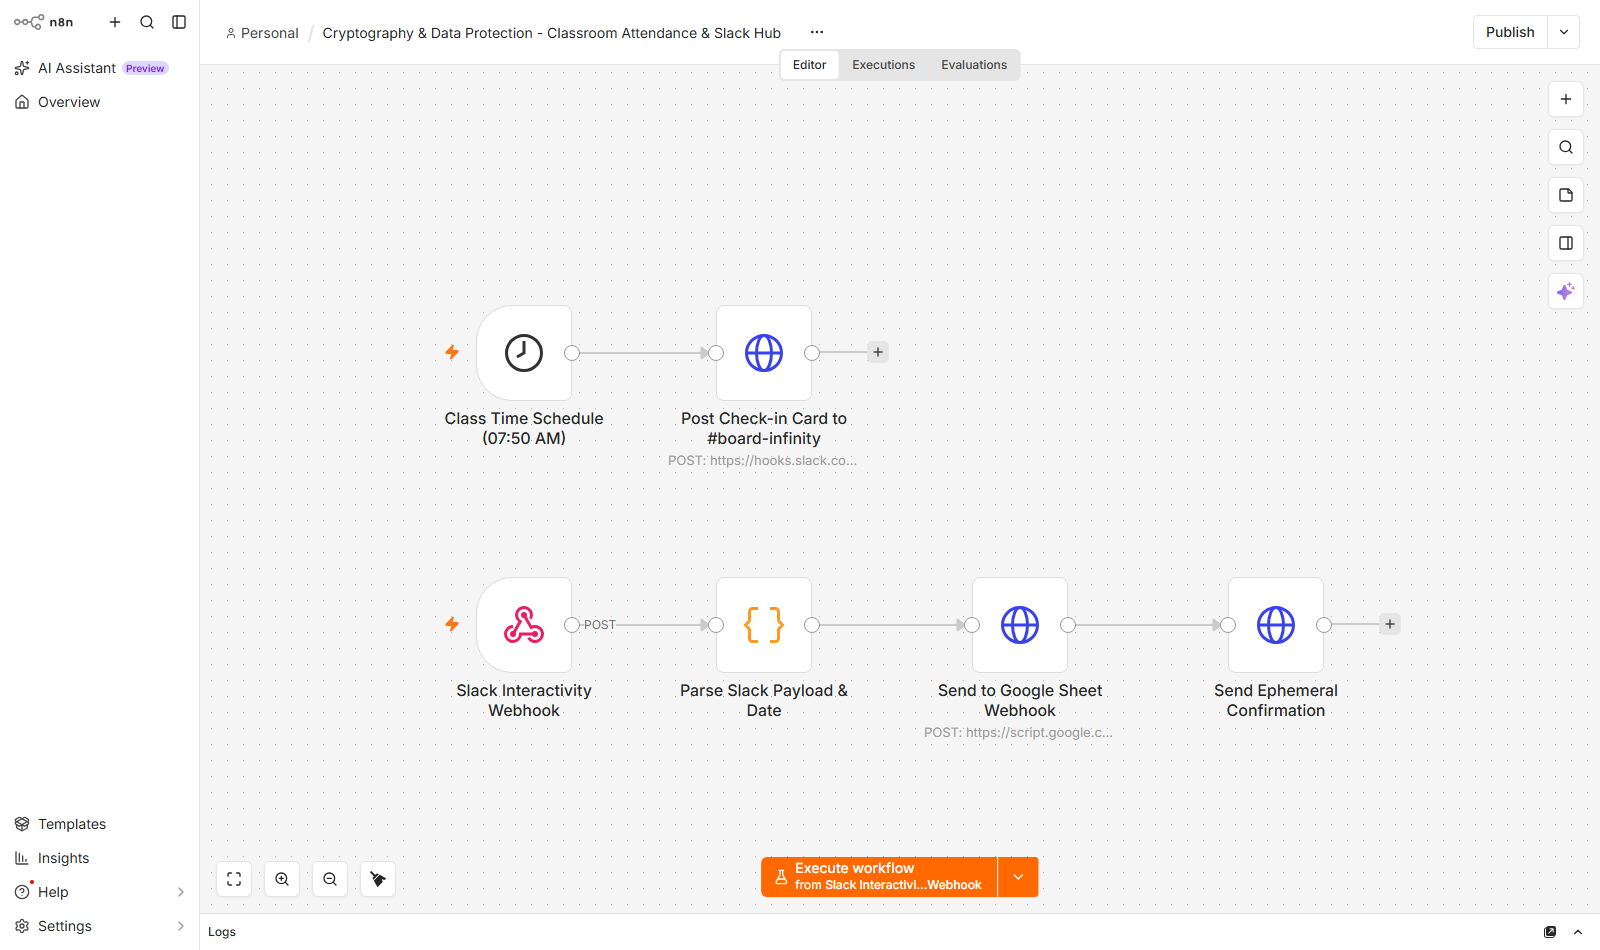
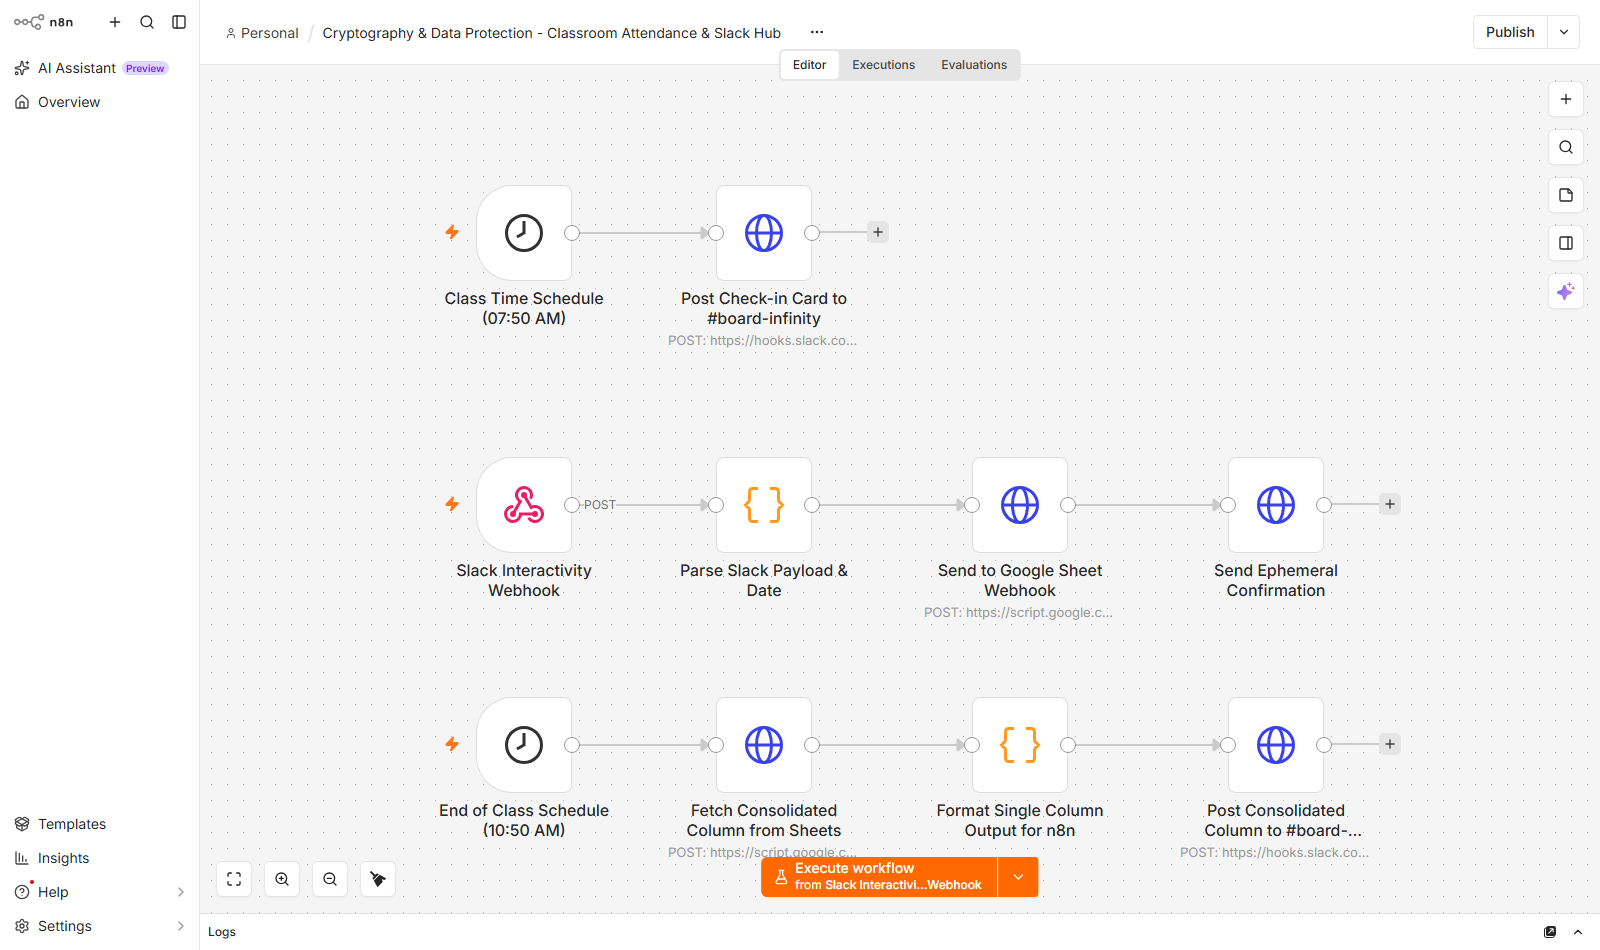
feat(n8n): implement consolidated single-column attendance pipeline with 10:50 AM end-of-class reporting

diff --git a/99_Resources/attendance_automation/SlackAttendanceWebhook.js b/99_Resources/attendance_automation/SlackAttendanceWebhook.js
@@ -13,19 +13,17 @@ function doGet(e) {
   try {
     var ss = SpreadsheetApp.getActiveSpreadsheet();
     var sheet = ss.getSheetByName("Sheet1") || ss.getSheets()[0];
-    var today = Utilities.formatDate(new Date(), "Asia/Kolkata", "dd-MM-yyyy");
     
-    var colInfo = getOrCreateDateColumn(sheet, today);
+    // Support ?date=07-09-2026 query param, default to today
+    var requestedDate = (e && e.parameter && e.parameter.date) 
+      ? e.parameter.date.trim() 
+      : Utilities.formatDate(new Date(), "Asia/Kolkata", "dd-MM-yyyy");
     
-    return ContentService.createTextOutput(JSON.stringify({
-      status: "success",
-      date: today,
-      column: colInfo.column,
-      newColumnCreated: colInfo.isNew,
-      message: colInfo.isNew 
-        ? "✅ Added new attendance date column for " + today + " at column " + colInfo.column + " with student checkboxes." 
-        : "ℹ Attendance column for " + today + " already exists at column " + colInfo.column + "."
-    })).setMimeType(ContentService.MimeType.JSON);
+    var colInfo = getOrCreateDateColumn(sheet, requestedDate);
+    var consolidated = buildConsolidatedColumn(sheet, colInfo.column, requestedDate);
+    
+    return ContentService.createTextOutput(JSON.stringify(consolidated))
+      .setMimeType(ContentService.MimeType.JSON);
   } catch (err) {
     return ContentService.createTextOutput(JSON.stringify({ status: "error", message: err.toString() }))
       .setMimeType(ContentService.MimeType.JSON);
@@ -59,6 +57,17 @@ function doPost(e) {
     } else if (e.parameter) {
       data = e.parameter;
       if (data.payload) rawPayload = data.payload;
+    }
+
+    // Direct Column Consolidation Request for n8n: { action: "get_column", date: "07-09-2026" }
+    var action = (data && data.action) || (e.parameter && e.parameter.action) || "";
+    if (action === "get_column") {
+      var ss = SpreadsheetApp.getActiveSpreadsheet();
+      var sheet = ss.getSheetByName("Sheet1") || ss.getSheets()[0];
+      var targetDate = (data.date || (e.parameter && e.parameter.date) || Utilities.formatDate(new Date(), "Asia/Kolkata", "dd-MM-yyyy")).trim();
+      var colInfo = getOrCreateDateColumn(sheet, targetDate);
+      var consolidated = buildConsolidatedColumn(sheet, colInfo.column, targetDate);
+      return ContentService.createTextOutput(JSON.stringify(consolidated)).setMimeType(ContentService.MimeType.JSON);
     }
 
     if (rawPayload) {
@@ -111,10 +120,10 @@ function doPost(e) {
     var ss = SpreadsheetApp.getActiveSpreadsheet();
     var sheet = ss.getSheetByName("Sheet1") || ss.getSheets()[0];
     
-    // Format Today's Date: DD-MM-YYYY (e.g. 08-09-2026)
-    var today = Utilities.formatDate(new Date(), "Asia/Kolkata", "dd-MM-yyyy");
+    // Format Today's Date: DD-MM-YYYY (e.g. 07-09-2026 or 08-09-2026)
+    var today = (data.date || (e.parameter && e.parameter.date) || Utilities.formatDate(new Date(), "Asia/Kolkata", "dd-MM-yyyy")).trim();
     
-    // 1. Get or dynamically create today's date column with full formatting & checkboxes
+    // 1. Get or dynamically create today's date column with Date header & checkboxes
     var colInfo = getOrCreateDateColumn(sheet, today);
     var targetCol = colInfo.column;
 
@@ -144,7 +153,15 @@ function doPost(e) {
     if (currentStatus === true) {
       var alreadyMsg = "ℹ *Already Recorded:* You are already marked *PRESENT* for today (" + today + ").";
       postToSlack(responseUrl, alreadyMsg, false);
-      return formatOutput(isSlackInteraction, { status: "already_marked", message: alreadyMsg }, alreadyMsg);
+      
+      var consolidatedData = buildConsolidatedColumn(sheet, targetCol, today);
+      return formatOutput(isSlackInteraction, { 
+        status: "already_marked", 
+        message: alreadyMsg,
+        date: today,
+        column: targetCol,
+        consolidated: consolidatedData
+      }, alreadyMsg);
     }
 
     // 4. Mark student as PRESENT (TRUE / Checkbox Ticked)
@@ -157,17 +174,89 @@ function doPost(e) {
     // B. Send live attendance broadcast to #board-infinity channel
     notifyChannelAttendance(studentName, studentEmail, today);
 
+    // C. Build consolidated single-column output for n8n automation
+    var consolidatedData = buildConsolidatedColumn(sheet, targetCol, today);
+
     return formatOutput(isSlackInteraction, {
       status: "success",
       message: successMsg,
       date: today,
-      column: targetCol
+      column: targetCol,
+      raw_column_text: consolidatedData.raw_column_text,
+      column_values: consolidatedData.column_values,
+      items: consolidatedData.items,
+      summary: consolidatedData.summary
     }, successMsg, true, studentName, studentEmail, today);
 
   } catch (err) {
     var errMsg = "❌ Error recording attendance: " + err.toString();
     return formatOutput(isSlackInteraction, { status: "error", message: errMsg }, errMsg);
   }
+}
+
+/**
+ * Builds the exact consolidated single-column format requested for n8n:
+ * Row 1: "Date"
+ * Row 2: "07-09-2026"
+ * Row 3..N: "TRUE" / "FALSE" for each student in the roster
+ */
+function buildConsolidatedColumn(sheet, col, dateStr) {
+  var lastRow = sheet.getLastRow();
+  var colValues = [];
+  var rawTextLines = [];
+  var items = [];
+  var presentCount = 0;
+  var absentCount = 0;
+
+  // Row 1: Header ("Date")
+  var headerVal = "Date";
+  colValues.push(headerVal);
+  rawTextLines.push(headerVal);
+  items.push({ row: 1, value: headerVal });
+
+  // Row 2: Date String ("07-09-2026")
+  colValues.push(dateStr);
+  rawTextLines.push(dateStr);
+  items.push({ row: 2, value: dateStr });
+
+  // Rows 3 to lastRow: Student Attendance Booleans (TRUE / FALSE)
+  if (lastRow >= 3) {
+    var rangeVals = sheet.getRange(3, col, lastRow - 2, 1).getValues();
+    for (var i = 0; i < rangeVals.length; i++) {
+      var rowNum = i + 3;
+      var rawVal = rangeVals[i][0];
+      var isPresent = (rawVal === true || rawVal === "TRUE" || rawVal === "true" || rawVal === 1);
+      var strVal = isPresent ? "TRUE" : "FALSE";
+      
+      if (isPresent) {
+        presentCount++;
+      } else {
+        absentCount++;
+      }
+
+      colValues.push(strVal);
+      rawTextLines.push(strVal);
+      items.push({ row: rowNum, value: strVal, boolean: isPresent });
+    }
+  }
+
+  return {
+    status: "success",
+    date: dateStr,
+    column: col,
+    header: "Date",
+    raw_column_text: rawTextLines.join("\n"),
+    column_values: colValues,
+    items: items,
+    summary: {
+      total_students: presentCount + absentCount,
+      present: presentCount,
+      absent: absentCount,
+      attendance_percentage: (presentCount + absentCount > 0) 
+        ? ((presentCount / (presentCount + absentCount)) * 100).toFixed(1) + "%" 
+        : "0%"
+    }
+  };
 }
 
 /**
@@ -187,6 +276,8 @@ function getOrCreateDateColumn(sheet, today) {
         ? Utilities.formatDate(cellVal, "Asia/Kolkata", "dd-MM-yyyy")
         : cellVal.toString().trim();
       if (formattedCellDate === today) {
+        // Ensure Row 1 has "Date" header
+        sheet.getRange(1, col).setValue("Date");
         return { column: col, isNew: false };
       }
     }
@@ -195,15 +286,15 @@ function getOrCreateDateColumn(sheet, today) {
   // If not found, create a new column at the end of the sheet
   var newCol = lastCol + 1;
 
-  // Header on Row 1 (Styled in University Blue)
+  // Header on Row 1 (Explicitly "Date" styled in University Blue)
   sheet.getRange(1, newCol)
-    .setValue("Attendance")
+    .setValue("Date")
     .setFontWeight("bold")
     .setHorizontalAlignment("center")
     .setBackground("#1a73e8")
     .setFontColor("#ffffff");
 
-  // Date label on Row 2 (Bold, Centered, Soft Blue Highlight)
+  // Date label on Row 2 (e.g. 07-09-2026)
   sheet.getRange(dateRow, newCol)
     .setValue(today)
     .setFontWeight("bold")
@@ -216,7 +307,7 @@ function getOrCreateDateColumn(sheet, today) {
   if (lastRow >= 3) {
     var studentRange = sheet.getRange(3, newCol, lastRow - 2, 1);
     studentRange.insertCheckboxes();
-    studentRange.setValue(false); // Default to unchecked (Absent)
+    studentRange.setValue(false); // Default to unchecked (FALSE / Absent)
     studentRange.setHorizontalAlignment("center");
   }
 
@@ -282,7 +373,7 @@ function postToSlack(responseUrl, text, isSuccess, studentName, studentEmail, to
  * Live broadcast to #board-infinity channel
  */
 function notifyChannelAttendance(studentName, studentEmail, today) {
-  if (!SLACK_CHANNEL_WEBHOOK) return;
+  if (!SLACK_CHANNEL_WEBHOOK || SLACK_CHANNEL_WEBHOOK.includes("YOUR_WORKSPACE")) return;
   try {
     UrlFetchApp.fetch(SLACK_CHANNEL_WEBHOOK, {
       method: "post",
